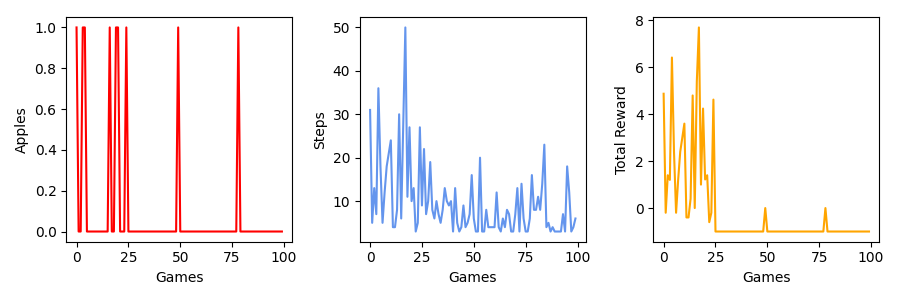
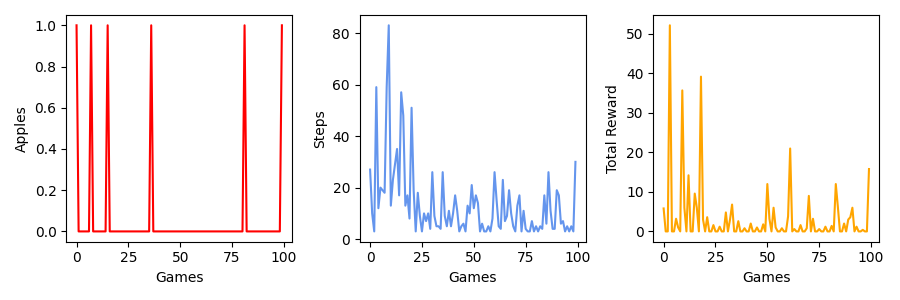
added proximity reward

diff --git a/game_demo.py b/game_demo.py
@@ -10,7 +10,7 @@ import matplotlib.pyplot as plt
 import tensorflow as tf
 import numpy as np
 from tensorflow.keras.models import Model
-from tensorflow.keras.layers import Input, Dense, Flatten, Conv2D, MaxPooling2D, BatchNormalization, Dropout
+from tensorflow.keras.layers import Input, Dense, Flatten, Conv2D, MaxPooling2D, Lambda
 from tensorflow.keras.losses import Huber
 from tensorflow.keras.initializers import HeUniform
 from tensorflow.keras.optimizers import Adam
@@ -73,6 +73,7 @@ def snakeModel(state_shape, action_shape, optimizer, loss, cnn=False):
     layer = Dense(128, input_shape=state_shape, activation='relu', kernel_initializer=init)(layer)
     layer = Dense(64, activation='relu', kernel_initializer=init)(layer)
     outputs = Dense(action_shape, activation='softmax', kernel_initializer=init)(layer)
+
     model = Model(inputs=inputs, outputs=outputs)
     model.compile(loss=loss, optimizer=optimizer, metrics=['accuracy'])
     return model
@@ -82,7 +83,7 @@ def decide(agent, state, _epsilon):
     if np.random.rand() <= _epsilon:
         return np.random.choice(POLICY, 1)
     predicted = agent.predict(state.reshape(BATCHED_SHAPE)).flatten()
-    return np.argmax(predicted) - 1
+    return POLICY[np.argmax(predicted)]
 
 
 def train(replay_memory, model, target_model):
@@ -300,16 +301,14 @@ def heuristic(_, apples, head, tails, direction, _type):
 
 def generateMemory(length, scenarios):
     mem = deque(maxlen=length)
-    memory_loaded = False
-    if os.path.isfile(os.getcwd() + "/" + "memory.pkl"):
-        with open(os.getcwd() + "/" + "memory.pkl") as f:
+    if os.path.isfile("memory.pkl"):
+        with open(os.getcwd() + "/" + "memory.pkl", "rb") as f:
             try:
                 print("Loaded memory.")
-                memory_loaded = True
                 mem = pickle.load(f)
             except Exception:
                 pass
-    if memory_loaded is False:
+    else:
         print("Generating memory with examples.")
         mem_apples = []
         mem_steps = []
@@ -376,9 +375,25 @@ def generateMemory(length, scenarios):
     return mem
 
 
-RANDOM_SEED = 5
-tf.random.set_seed(RANDOM_SEED)
-np.random.seed(RANDOM_SEED)
+def generateProximityRewards(_board, _apples):
+    odor_map = np.zeros((_board.shape[0], _board.shape[1]))
+    for apple in _apples:
+        _i = 0
+        _j = 0
+        for n in range(PROXIMITY_AREA_L, 0, -1):
+            for i in range(_i, n):
+                for j in range(_j, n):
+                    x = apple[0] - round(n / 2) + i
+                    y = apple[1] - round(n / 2) + j
+                    try:
+                        odor_map[x, y] += INITIAL_PROXIMITY_REWARD_BONUS
+                    except Exception:
+                        continue
+            _i += 1
+            _j += 1
+        odor_map[apple[0], apple[1]] = INITIAL_APPLE_BONUS
+    return odor_map
+
 
 RANDOM_SEED = 5
 tf.random.set_seed(RANDOM_SEED)
@@ -394,17 +409,22 @@ BATCHED_SHAPE = (1, WIDTH + 2 * BORDER, HEIGHT + 2 * BORDER, 3)
 POLICY = [-1, 0, 1]
 
 BATCH_SIZE = 64 * 2
-MEMORY_LENGTH = 100000
+MEMORY_LENGTH = 50000
 MIN_EPOCHS = 1000
 EPOCHS = 100
-MAX_STEPS = 1000
+MAX_STEPS = 500
 
 # TODO: experiment with different values for different heuristics
 MAX_EPSILON = 1
 MIN_EPSILON = 0.01
 DECAY_RATE = 0.01
 
-DISCOUNT = 0.99  # 0.618
+INITIAL_APPLE_BONUS = 10
+INITIAL_PROXIMITY_REWARD_BONUS = 3
+PROXIMITY_AREA_L = 5
+BONUS_DECAY = 0.05
+
+DISCOUNT = 0.99
 LEARNING_RATE = 0.001
 TARGET_DELAY = 100
 TRAIN_STEPS = 4
@@ -412,19 +432,24 @@ TRAIN_STEPS = 4
 RANDOM_PATTERN = 0
 L_PATTERN = 1
 DIAGONAL_PATTERN = 2
+GENERATE_GIF = True
 
 if __name__ == '__main__':
+    tf.keras.backend.clear_session()
     os.makedirs(PATH, exist_ok=True)
-    training_gif = imageio.get_writer(PATH + "/" + 'training.gif', mode='I')
+    if GENERATE_GIF:
+        training_gif = imageio.get_writer(PATH + "/" + 'training.gif', mode='I')
 
-    train_scenarios = [{'FOOD_AMOUNT': 15, 'MAX_GRASS': 0.2, 'GRASS_GROWTH': 0.001},
-                       {'FOOD_AMOUNT': 10, 'MAX_GRASS': 0, 'GRASS_GROWTH': 0},
-                       {'FOOD_AMOUNT': 5, 'MAX_GRASS': 0, 'GRASS_GROWTH': 0},
+    train_scenarios = [{'FOOD_AMOUNT': 3, 'MAX_GRASS': 0.2, 'GRASS_GROWTH': 0.001},
+                       {'FOOD_AMOUNT': 3, 'MAX_GRASS': 0, 'GRASS_GROWTH': 0},
                        {'FOOD_AMOUNT': 1, 'MAX_GRASS': 0, 'GRASS_GROWTH': 0}]
 
     eval_scenario = {'FOOD_AMOUNT': 1, 'MAX_GRASS': 0, 'GRASS_GROWTH': 0}
 
-    memory = generateMemory(MEMORY_LENGTH, [{'FOOD_AMOUNT': 1, 'MAX_GRASS': 0, 'GRASS_GROWTH': 0}])
+    memory = generateMemory(MEMORY_LENGTH,
+                            [{'FOOD_AMOUNT': 3, 'MAX_GRASS': 0.2, 'GRASS_GROWTH': 0.001},
+                             {'FOOD_AMOUNT': 3, 'MAX_GRASS': 0, 'GRASS_GROWTH': 0},
+                             {'FOOD_AMOUNT': 1, 'MAX_GRASS': 0, 'GRASS_GROWTH': 0}])
 
     snake = snakeModel(BOARD_SHAPE, len(POLICY), Adam(lr=LEARNING_RATE), Huber(), cnn=True)
     target_snake = snakeModel(BOARD_SHAPE, len(POLICY), Adam(lr=LEARNING_RATE), Huber(), cnn=True)
@@ -441,49 +466,55 @@ if __name__ == '__main__':
     train_width = 32 - 2 * TRAIN_BORDER
     train_height = 32 - 2 * TRAIN_BORDER
     border_inc_interval = round(EPOCHS / (train_border - 1))
-    scenario = 0
+    max_apples = 0
     for epoch in tqdm(range(EPOCHS), desc="Training"):
         if epoch % border_inc_interval == 0 and epoch > 0:
             train_border -= 1
             train_height += 2
             train_width += 2
-        if epoch == round(EPOCHS / 4):
-            scenario = 1
-        elif epoch == round(2 * EPOCHS / 4):
-            scenario = 2
-        elif epoch == round(3 * EPOCHS / 4):
-            scenario = 3
-        game = generateGame(train_scenarios[scenario])
-
-        board, reward, _, info = game.reset()
+        # game = generateGame(train_scenarios[epoch % len(train_scenarios)], train_width, train_height, train_border)
+        game = generateGame(train_scenarios[epoch % len(train_scenarios)])
+        _, apples, _, _, _ = game.get_state()
+        board, _, _, _ = game.reset()
+        proximity_bonus_grid = generateProximityRewards(board, apples)
         total_apples = 0
         total_steps = 0
         total_rewards = 0
+        reward = 0
         done = False
         while not done:
-
-            if not done:
+            if GENERATE_GIF:
                 file_name = PATH + "/" + str(epoch) + "_" + str(total_steps) + ".png"
                 plot_board(file_name, board, str(epoch) + ", " + str(total_steps))
                 training_gif.append_data(imageio.imread(file_name))
                 os.remove(file_name)
 
+            total_rewards += reward
             steps += 1
             total_steps += 1
             action = decide(snake, board, epsilon)
             next_board, reward, done, info = game.step(action)
+            _, apples, head, _, _ = game.get_state()
+            if reward >= 1:
+                proximity_bonus_grid = generateProximityRewards(board, apples)
+                total_apples += 1
+                if total_apples > max_apples:
+                    max_apples = total_apples + 1
+
+            reward += proximity_bonus_grid[head]
             memory.append([board, action, reward, next_board, done])
-            total_rewards += reward
             if len(memory) >= MIN_EPOCHS and (steps % TRAIN_STEPS == 0 or done):
                 train(memory, snake, target_snake)
-            if reward >= 1:
-                total_apples += 1
+
             board = next_board
             if done:
                 train_apples.append(total_apples)
                 train_steps.append(total_steps)
                 train_rewards.append(total_rewards)
                 total_steps = 0
+                if total_apples >= max_apples:
+                    INITIAL_APPLE_BONUS -= INITIAL_APPLE_BONUS * BONUS_DECAY
+                    INITIAL_PROXIMITY_REWARD_BONUS -= INITIAL_PROXIMITY_REWARD_BONUS * BONUS_DECAY
                 if steps >= TARGET_DELAY:
                     target_snake.set_weights(snake.get_weights())
                     steps = 0
